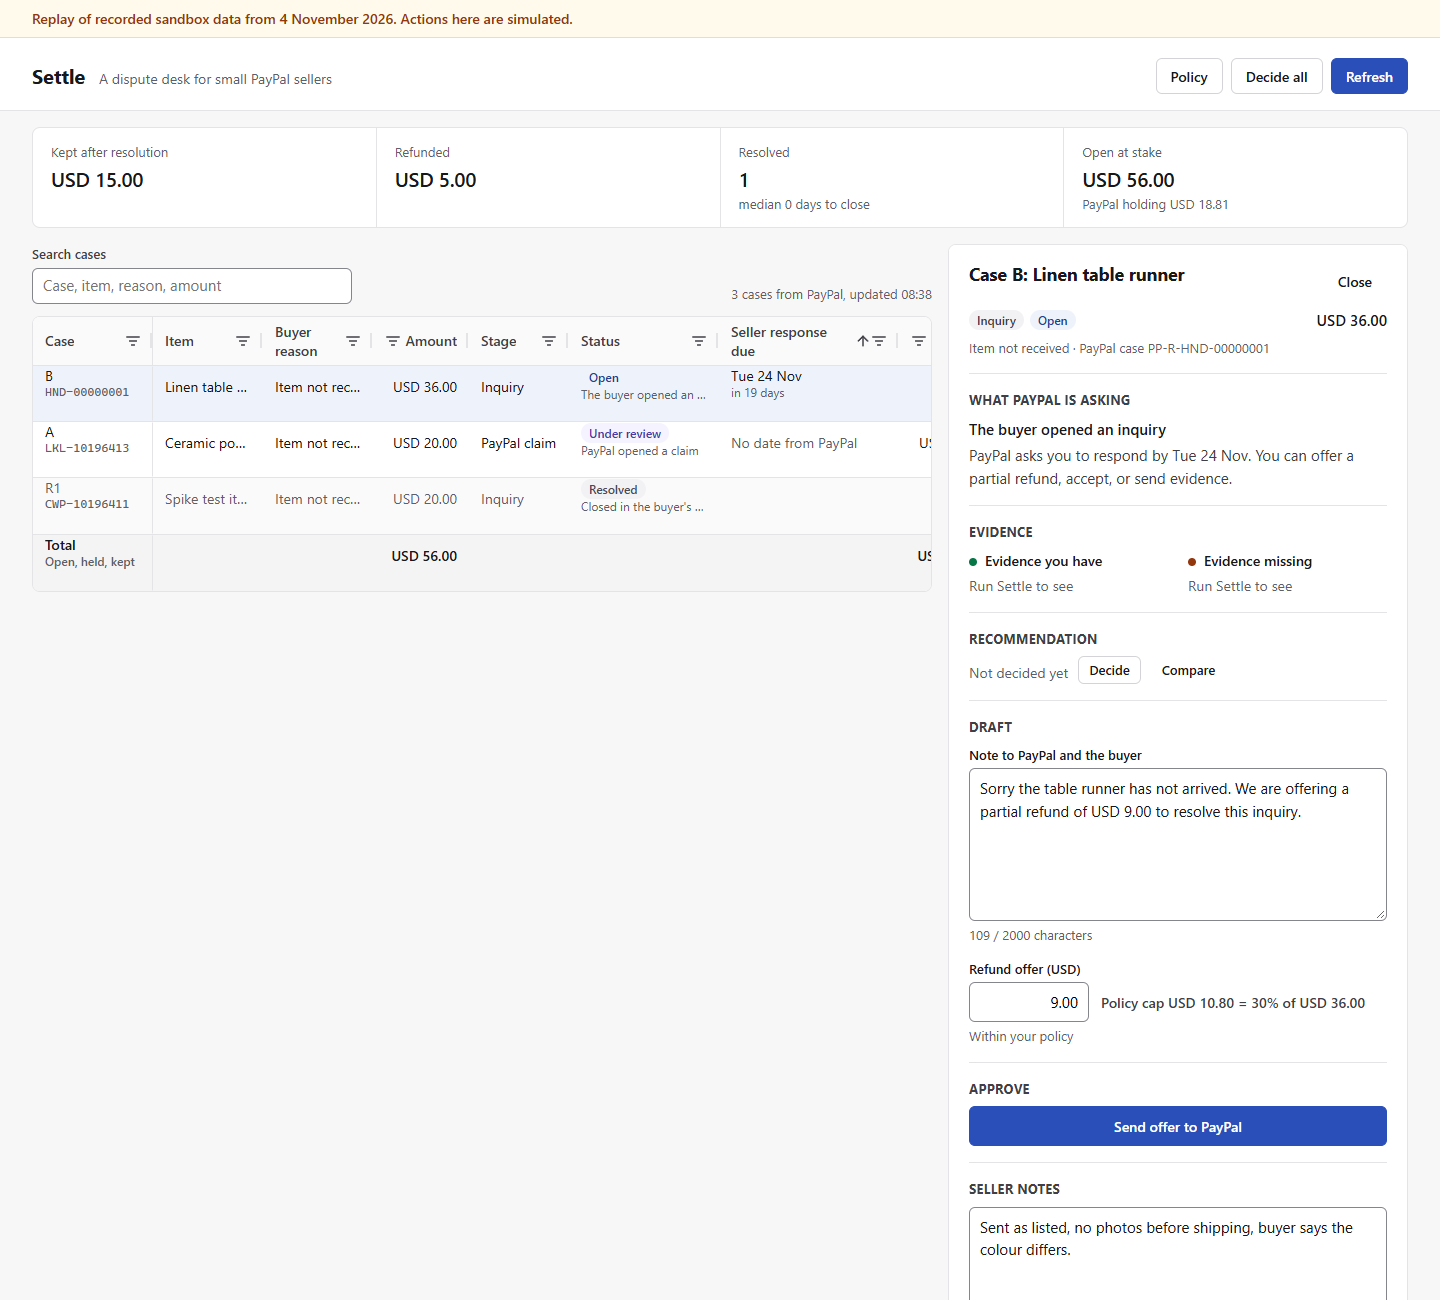
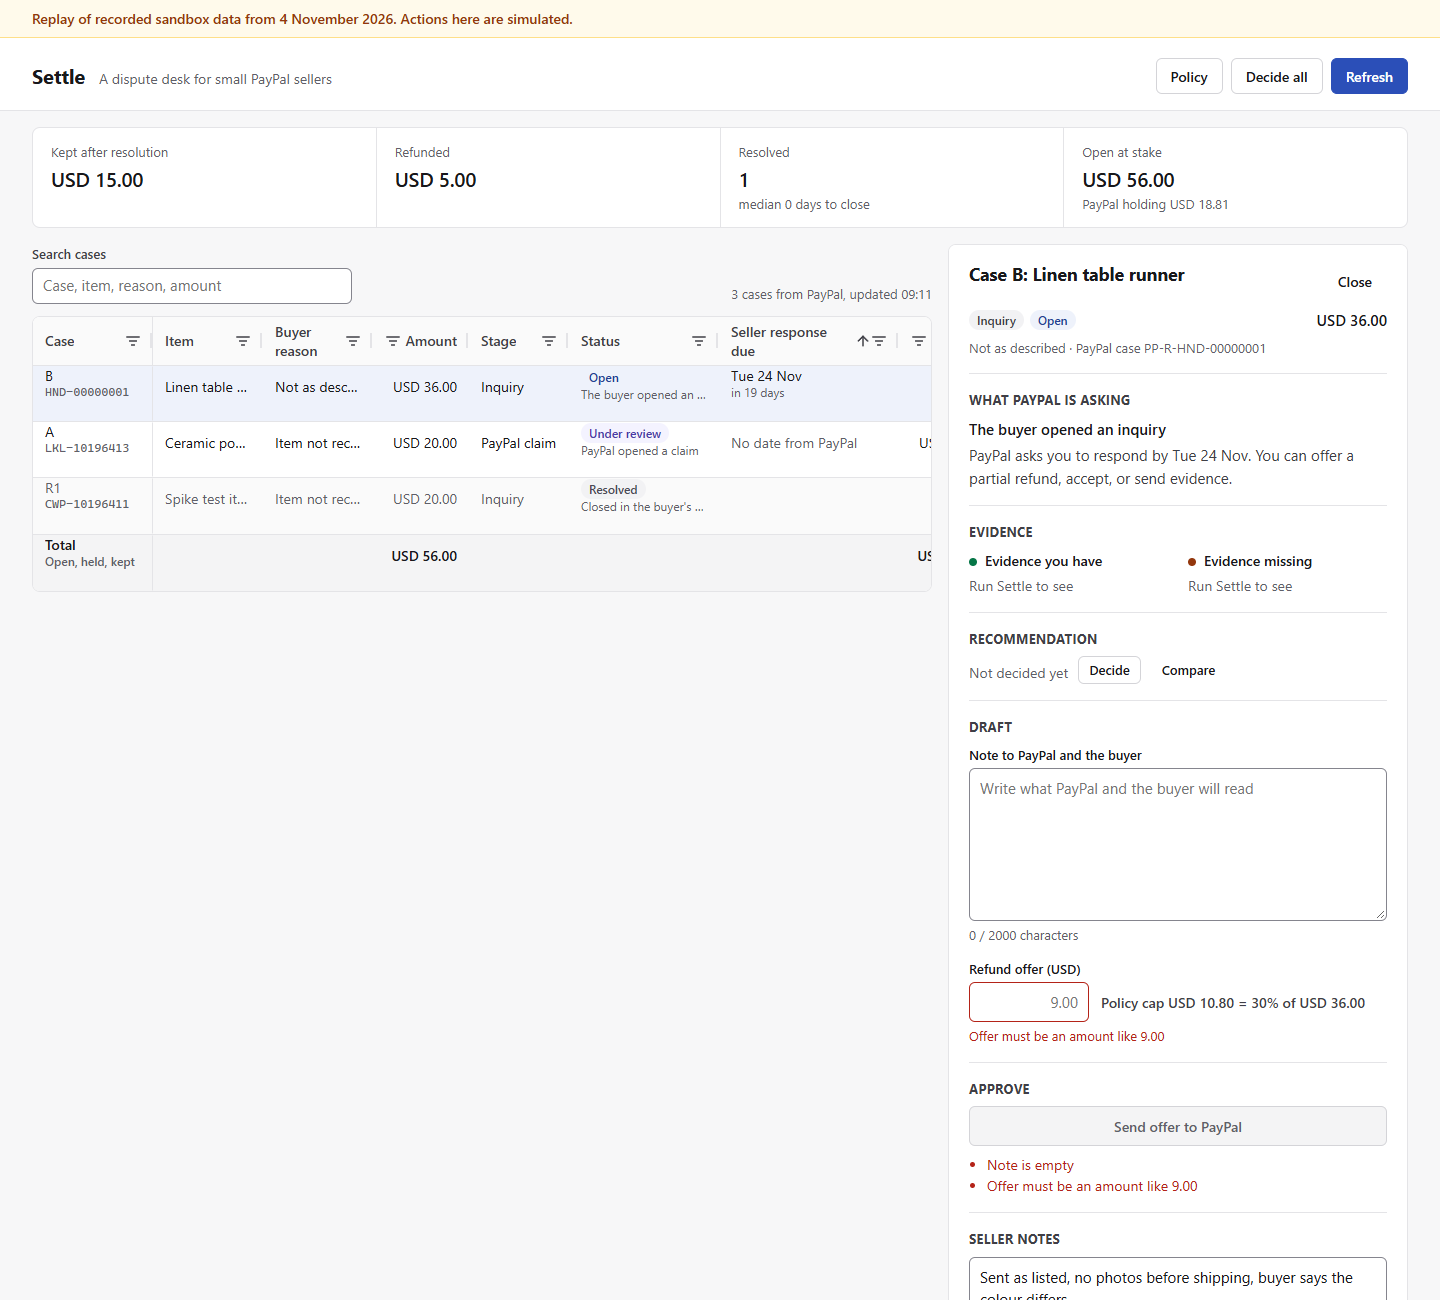
Give replay B the not-as-described reason and retake the screenshots
Replay case B now carries MERCHANDISE_OR_SERVICE_NOT_AS_DESCRIBED, as the
case plan and eval case say. README and the Devpost notes describe replay
data as recorded sandbox data with some cases derived from it. The panel
screenshot shows case B before Settle has run, with an empty draft; the
grid and claim screenshots are retaken with B's new reason.

diff --git a/test/fakes/fakePaypal.test.ts b/test/fakes/fakePaypal.test.ts
@@ -22,7 +22,7 @@ describe('FakePayPal replay', () => {
     const a = await paypal.getDispute(A);
     expect(a).toMatchObject({ dispute_life_cycle_stage: 'CHARGEBACK', fund_movements: [{ reason: 'HOLD_PLACED', amount: { value: '18.81' } }] });
     expect(a.supporting_info).toBeUndefined();
-    expect(await paypal.getDispute(B)).toMatchObject({ dispute_life_cycle_stage: 'INQUIRY', status: 'OPEN' });
+    expect(await paypal.getDispute(B)).toMatchObject({ dispute_life_cycle_stage: 'INQUIRY', status: 'OPEN', reason: 'MERCHANDISE_OR_SERVICE_NOT_AS_DESCRIBED', disputed_transactions: [{ items: [{ reason: 'MERCHANDISE_OR_SERVICE_NOT_AS_DESCRIBED' }] }] });
   });
 
   test('getDispute returns a copy, so callers cannot change the replay state', async () => {

diff --git a/README.md b/README.md
@@ -5,13 +5,13 @@ Settle is a dispute desk for small PayPal sellers. It reads each open dispute, s
 Hosted demo: link added at submission.
 
 ![Settle case board](docs/img/grid.png)
-The case board with the outcome strip and the pinned total row (replay of recorded sandbox data)
+The case board with the outcome strip and the pinned total row (replay of recorded and derived sandbox data)
 
 ![Case B panel](docs/img/panel.png)
-Case B, an inquiry: what PayPal is asking, evidence, draft note and refund offer under the policy cap (replay of recorded sandbox data)
+Case B before Settle has run (replay of recorded and derived sandbox data)
 
 ![Case A panel](docs/img/claim.png)
-Case A, a PayPal claim: PayPal's hold and the send supporting information action (replay of recorded sandbox data)
+Case A, a PayPal claim: PayPal's hold and the send supporting information action (replay of recorded and derived sandbox data)
 
 ## PayPal APIs and AI model used, and where
 
@@ -96,7 +96,7 @@ Outside replay mode, if the PayPal pair or the model key is missing, the server 
 SETTLE_FAKE_PAYPAL=1 SETTLE_PASSCODE=anything npm run dev
 ```
 
-Replay mode serves recorded sandbox data from `seed/replay/` (recorded 2026-11-04, personal data redacted) instead of calling PayPal. The page shows a banner saying it is a replay of recorded sandbox data and that actions are simulated. `SETTLE_PASSCODE` is still required. Without `ANTHROPIC_API_KEY`, a case cannot get a new recommendation and says so; with it set, the real model runs against the recorded data.
+Replay mode serves recorded sandbox data, with some cases derived from it (marked `_replay`), from `seed/replay/` (recorded 2026-11-04, personal data redacted) instead of calling PayPal. The page shows a banner saying it is a replay of recorded sandbox data and that actions are simulated. `SETTLE_PASSCODE` is still required. Without `ANTHROPIC_API_KEY`, a case cannot get a new recommendation and says so; with it set, the real model runs against the recorded data.
 
 On Windows PowerShell, set variables first, for example `$env:SETTLE_FAKE_PAYPAL='1'; $env:SETTLE_PASSCODE='anything'; npm run dev`.
 

diff --git a/docs/devpost.md b/docs/devpost.md
@@ -69,7 +69,7 @@ Render: hosted as one free web service from the blueprint in `render.yaml` (buil
 - A model that recommends but cannot act. The money path lives only in app code, behind the seller's approval and a server re-check.
 - A recommendation that can say "settle" or "accept", not only "fight".
 - An outcome counter that reports only what PayPal says happened.
-- A replay mode, so anyone can look around without credentials, clearly labelled as recorded data.
+- A replay mode, so anyone can look around without credentials, clearly labelled as recorded sandbox data, with some cases derived from it (marked _replay).
 
 ## What we learned
 
@@ -124,7 +124,7 @@ Measured on the hosted deploy: cold start about [COLD START SECONDS] s, a new re
 
 Judging runs Dec 1 to 15. A fresh case set is seeded on Nov 28 to 30. Each sandbox case can be acted on once; spares are listed in the grid. If everything has been acted on or has expired, each case still shows its recommendation, reasons and log entry.
 
-To look around without any keys, run replay mode (see README, Replay mode). It serves recorded sandbox data and says so in a banner; actions there are simulated.
+To look around without any keys, run replay mode (see README, Replay mode). It serves recorded sandbox data, with some cases derived from it (marked _replay), and says so in a banner; actions there are simulated.
 
 To run with your own sandbox app and Anthropic key, see README, Running it as a judge. For a fresh set of cases, see docs/seeding.md.
 ```
